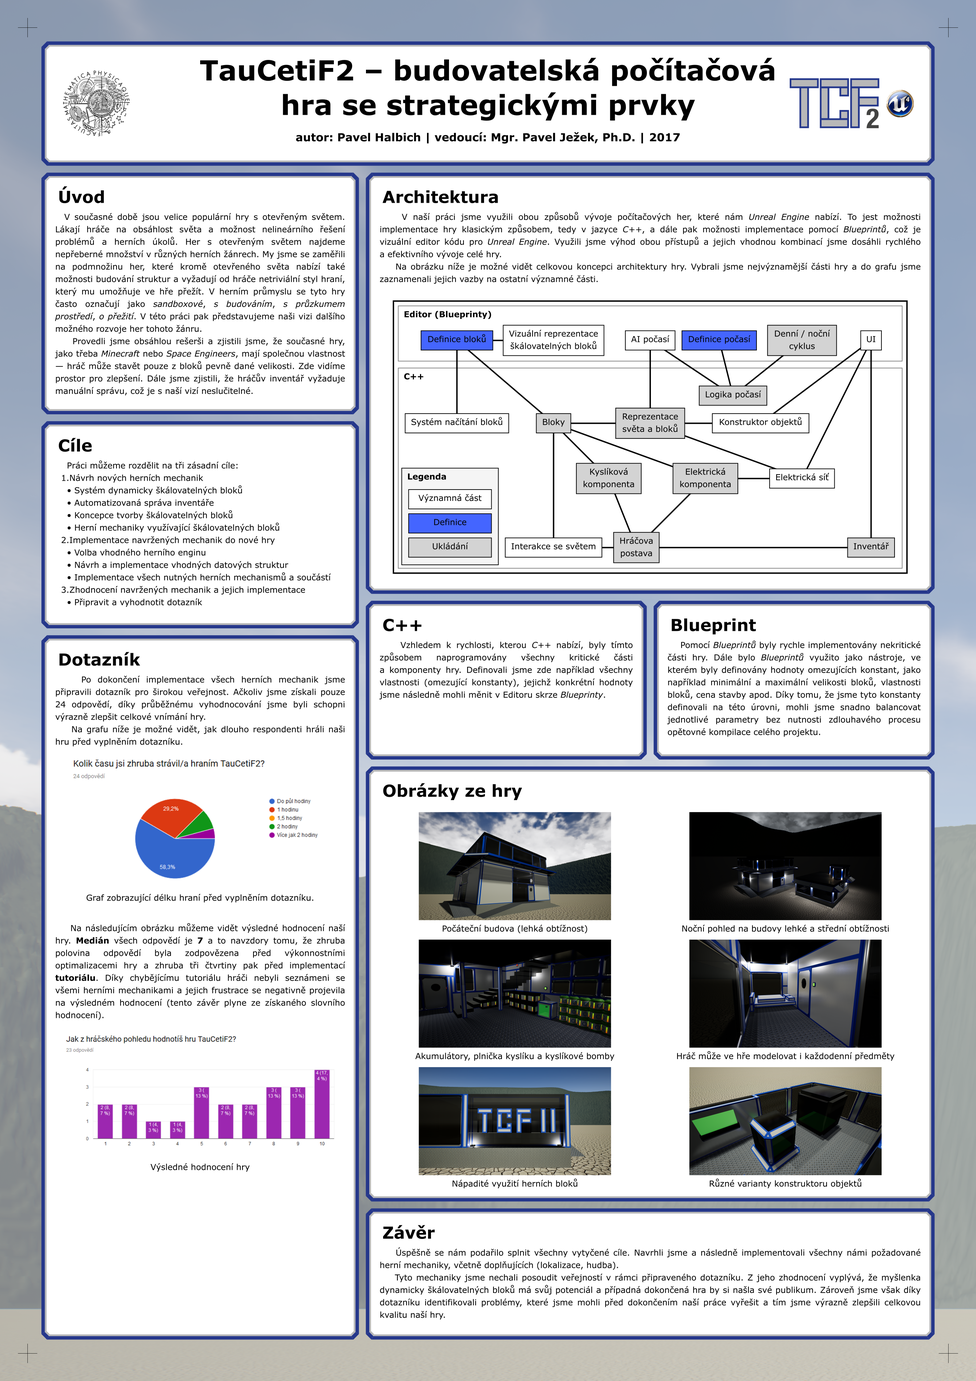
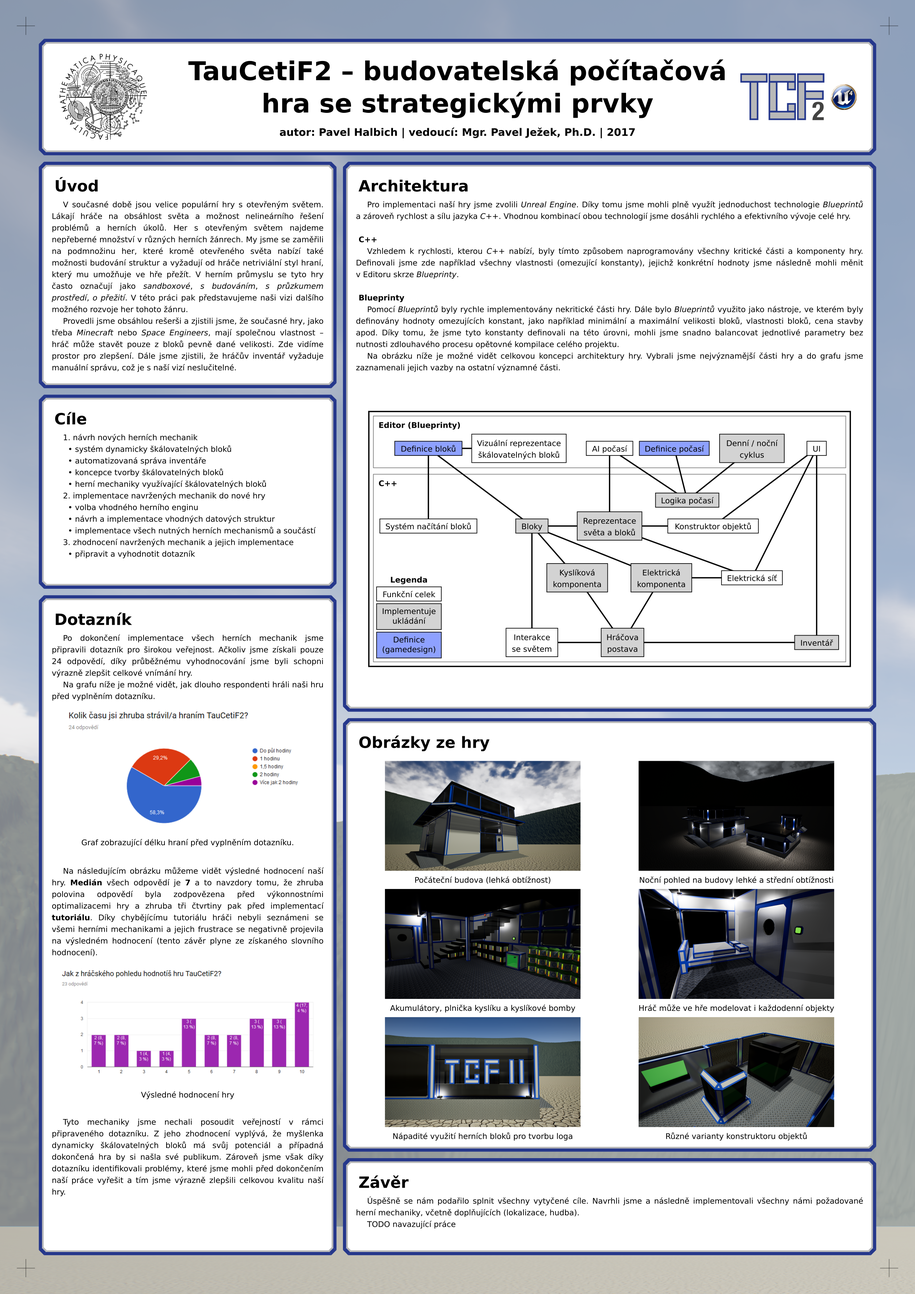
finální úpravy

diff --git a/Poster/PosterCreator/PosterCreator/PosterCreator/TextSource.cs b/Poster/PosterCreator/PosterCreator/PosterCreator/TextSource.cs
@@ -15,8 +15,6 @@ namespace PosterCreator
         Architektura,
         Obrázky,
         Závěr,
-        Kod,
-        Blueprint,
         Dotaznik
     }
 
@@ -38,11 +36,11 @@ namespace PosterCreator
                     {
                         var vsTop = new VerticalSplitter();
 
-                        var vsLogo = new VerticalSplitter().SetPadding(new Offset(10, 5));
+                        var vsLogo = new VerticalSplitter().SetPadding(new Offset(0, 5));
                         var schoolLogo = new ImageHolder("MffLogo") { IsSquare = true };
                         vsLogo.AddChild(new[] { schoolLogo }, 90);
 
-                        var centerText = new HorizontalSplitter();
+                        var centerText = new HorizontalSplitter().SetMargin(new Offset(2,0,0,0));
 
                         var c = centerText.AddChild(new[] { new Text(), new Text() }, 55, 15);
 
@@ -66,33 +64,25 @@ namespace PosterCreator
                     {
                         var ut = new Text();
                         ut.AppendText(
-                            @"  V současné době jsou velice populární hry s otevřeným světem. Lákají
-hráče na obsáhlost světa a možnost nelineárního řešení problémů a herních
-úkolů. Her s otevřeným světem najdeme nepřeberné množství v různých herních
-žánrech. My jsme se zaměřili na podmnožinu her, které kromě otevřeného světa nabízí
-také možnosti budování struktur a vyžadují od hráče netriviální styl hraní,
-který mu umožňuje ve hře přežít. V herním průmyslu se tyto hry často označují
-jako <sandboxové>, <s budováním>, <s průzkumem prostředí>, <o přežití>. V této práci pak představujeme naši vizi dalšího možného
-rozvoje her tohoto žánru."
+                            ";@V současné době jsou velice populární hry s otevřeným světem. Lákají hráče na obsáhlost světa a možnost nelineárního řešení problémů a herních úkolů. Her s otevřeným světem najdeme nepřeberné množství v různých herních žánrech. My jsme se zaměřili na podmnožinu her, které kromě otevřeného světa nabízí také možnosti budování struktur a vyžadují od hráče netriviální styl hraní, který mu umožňuje ve hře přežít. V herním průmyslu se tyto hry často označují jako <sandboxové>, <s budováním>, <s průzkumem prostředí>, <o přežití>. V této práci pak představujeme naši vizi dalšího možného rozvoje her tohoto žánru."
                         );
-                        ut.AppendText("    Provedli jsme obsáhlou rešerši a zjistili jsme, že současné hry, jako třeba <Minecraft> nebo <Space Engineers>, mají společnou vlastnost — hráč může stavět pouze z bloků pevně dané velikosti. Zde vidíme prostor pro zlepšení. Dále jsme zjistili, že hráčův inventář vyžaduje manuální správu, což je s naší vizí neslučitelné.");
+                        ut.AppendText(";@Provedli jsme obsáhlou rešerši a zjistili jsme, že současné hry, jako třeba <Minecraft> nebo <Space Engineers>, mají společnou vlastnost – hráč může stavět pouze z bloků pevně dané velikosti. Zde vidíme prostor pro zlepšení. Dále jsme zjistili, že hráčův inventář vyžaduje manuální správu, což je s naší vizí neslučitelné.");
                         return ut;
                     }
                 case SourceType.Cíle:
                     {
                         var ut = new Text();
-                        ut.AppendText("    Práci můžeme rozdělit na tři zásadní cíle:");
-                        ut.AppendText("  1.Návrh nových herních mechanik");
-                        ut.AppendText("    • Systém dynamicky škálovatelných bloků");
-                        ut.AppendText("    • Automatizovaná správa inventáře");
-                        ut.AppendText("    • Koncepce tvorby škálovatelných bloků");
-                        ut.AppendText("    • Herní mechaniky využívající škálovatelných bloků");
-                        ut.AppendText("  2.Implementace navržených mechanik do nové hry");
-                        ut.AppendText("    • Volba vhodného herního enginu");
-                        ut.AppendText("    • Návrh a implementace vhodných datových struktur");
-                        ut.AppendText("    • Implementace všech nutných herních mechanismů a součástí");
-                        ut.AppendText("  3.Zhodnocení navržených mechanik a jejich implementace");
-                        ut.AppendText("    • Připravit a vyhodnotit dotazník");
+                        ut.AppendText(";@1. návrh nových herních mechanik");
+                        ut.AppendText(";@~~• systém dynamicky škálovatelných bloků");
+                        ut.AppendText(";@~~• automatizovaná správa inventáře");
+                        ut.AppendText(";@~~• koncepce tvorby škálovatelných bloků");
+                        ut.AppendText(";@~~• herní mechaniky využívající škálovatelných bloků");
+                        ut.AppendText(";@2. implementace navržených mechanik do nové hry");
+                        ut.AppendText(";@~~• volba vhodného herního enginu");
+                        ut.AppendText(";@~~• návrh a implementace vhodných datových struktur");
+                        ut.AppendText(";@~~• implementace všech nutných herních mechanismů a součástí");
+                        ut.AppendText(";@3. zhodnocení navržených mechanik a jejich implementace");
+                        ut.AppendText(";@~~• připravit a vyhodnotit dotazník");
 
                         return ut;
                     }
@@ -100,24 +90,27 @@ rozvoje her tohoto žánru."
                     {
                         var hz = new HorizontalSplitter();
                         var ut = new Text();
+                        var canvas = new Canvas();
+                        hz.AddChild(new GraphicalElement[] { ut, canvas }, 155, 217);
+
                         ut.AppendText(new[]
                         {
-                            "    V naší práci jsme využili obou způsobů vývoje počítačových her, které nám <Unreal Engine> nabízí. To jest možnosti implementace hry klasickým způsobem, tedy v jazyce <C++>, a dále pak možnosti implementace pomocí <Blueprintů>, což je vizuální editor kódu pro <Unreal Engine>. Využili jsme výhod obou přístupů a jejich vhodnou kombinací jsme dosáhli rychlého a efektivního vývoje celé hry.",
+                            ";@Pro implementaci naší hry jsme zvolili <Unreal Engine>. Díky tomu jsme mohli plně využít jednoduchost technologie <Blueprintů> a zároveň rychlost a sílu jazyka <C++>. Vhodnou kombinací obou technologií jsme dosáhli rychlého a efektivního vývoje celé hry.",
+                            "",
+                            "[ C++]",
+                            ";@Vzhledem k rychlosti, kterou <C++> nabízí, byly tímto způsobem naprogramovány všechny kritické části a komponenty hry. Definovali jsme zde například všechny vlastnosti (omezující konstanty), jejichž konkrétní hodnoty jsme následně mohli měnit v Editoru skrze <Blueprinty>.",
+                            "",
+                            "[ Blueprinty]",
+                            ";@Pomocí <Blueprintů> byly rychle implementovány nekritické části hry. Dále bylo <Blueprintů> využito jako nástroje, ve kterém byly definovány hodnoty omezujících konstant, jako například minimální a maximální velikosti bloků, vlastnosti bloků, cena stavby apod. Díky tomu, že jsme tyto konstanty definovali na této úrovni, mohli jsme snadno balancovat jednotlivé parametry bez nutnosti zdlouhavého procesu opětovné kompilace celého projektu.",
+                            ";@Na obrázku níže je možné vidět celkovou koncepci architektury hry. Vybrali jsme nejvýznamější části hry a do grafu jsme zaznamenali jejich vazby na ostatní významné části.",
 
-                            "    Na obrázku níže je možné vidět celkovou koncepci architektury hry. Vybrali jsme nejvýznamější části hry a do grafu jsme zaznamenali jejich vazby na ostatní významné části.",
-
-                            //"    Dále jsme využili komponentový přístup. Kupříkladu implementací <kyslíkové> či <elektrické> komponenty jsme mohli tyto komponenty přiřadit jak k blokům, tak třeba k hráčově postavě. Tímto způsobem jsme se vyhnuli duplicitnímu kódu a mohli jsme s těmito mechanikami pracovat standardizovaným způsobem.",
-
-                            //"    Dále byl ve hře systém bloků implementován takovým způsobem, že je možné rozšiřovat dostupné bloky pomocí <DLC>, tedy stahovatelného obsahu. Hra tedy nabízí alespoň základní možnosti uživatelkého rozšiřování.",
-                            //"    Během práce na TCF2 jsme se maximálně snažili využít možností, které nám <Unreal Engine> nabízí. Proto jsme byli kupříkladu schopni poměrně rychle implementovat logiku, která ovládá systém počasí. Ten byl implementován pomocí rozhodovacího stromu, k čemuž jsme využili již existující nástroje, kterými <Unreal Engine> disponuje.",
                         });
 
-                        var canvas = new Canvas();
 
                         var saveColor = Color.LightGray;
-                        var defColor = Color.FromArgb(68, 101, 255);
+                        var defColor = Color.FromArgb(142, 161, 255);
 
-                        var blocks = canvas.Add("Bloky", -70, -10, 25);
+                        var blocks = canvas.Add("Bloky", -60, -10, 25);
                         blocks.SetBackground(saveColor);
 
                         var blocksDef = canvas.Add("Definice bloků", -140, -70, 52);
@@ -142,15 +135,15 @@ rozvoje her tohoto žánru."
                         var elComp = canvas.Add("Elektrická\nkomponenta", 40, 30, 47, 22);
                         elComp.SetBackground(saveColor);
                         var elNet = canvas.Add("Elektrická síť", 110, 30, 47);
-                        var o2Comp = canvas.Add("Kyslíková\nkomponenta", -30, 30, 47, 22);
+                        var o2Comp = canvas.Add("Kyslíková\nkomponenta", -25, 30, 47, 22);
                         o2Comp.SetBackground(saveColor);
 
-                        var character = canvas.Add("Hráčova\npostava", -10, 80, 33, 22);
+                        var character = canvas.Add("Hráčova\npostava", 10, 80, 33, 22);
                         character.SetBackground(saveColor);
                         var inventory = canvas.Add("Inventář", 160, 80, 34);
                         inventory.SetBackground(saveColor);
                         var blockLoadSys = canvas.Add("Systém načítání bloků", -140, -10, 75);
-                        var interWorld = canvas.Add("Interakce se světem", -70, 80, 70);
+                        var interWorld = canvas.Add("Interakce\nse světem", -60, 80, 40, 22);
 
 
                         canvas.AddR(blocks, blocksDef);
@@ -188,34 +181,20 @@ rozvoje her tohoto žánru."
 
                         canvas.AddA("C++", 0, 22.5f, 365, 145);
 
-                        var l = canvas.AddA("Legenda", -145f, 57.5f, 70, 70);
-                        l.OverrideOpacity = 1;
+                        var l = canvas.AddA("Legenda", -148.5f, 31.5f, 50); 
+                        l.OverrideOpacity = 0;
                         var c0 = 245;
-                        l.SetBackground(Color.FromArgb(c0, c0, c0));
+                        //l.SetBackground(Color.FromArgb(c0, c0, c0));
 
-                        var legendSec = canvas.Add("Významná část", -145, 45, 60);
-                        var legendDef = canvas.Add("Definice", -145, 62.5f, 60);
-                        legendDef.SetBackground(defColor);
-                        var legendSave = canvas.Add("Ukládání", -145, 80, 60);
+                        var legendSec = canvas.Add("Funkční celek", -155f, 42.5f, 50);
+                        var legendSave = canvas.Add("Implementuje ukládání", -155f, 60, 50, 20);
                         legendSave.SetBackground(saveColor);
+                        var legendDef = canvas.Add("Definice (gamedesign)", -155f, 82f, 50, 20);
+                        legendDef.SetBackground(defColor);
 
-                        hz.AddChild(new GraphicalElement[] { ut, canvas }, 55, 217);
+
 
                         return hz;
-                    }
-                case SourceType.Kod:
-                    {
-                        var ut = new Text();
-                        ut.AppendText("    Vzhledem k rychlosti, kterou <C++> nabízí, byly tímto způsobem naprogramovány všechny kritické části a komponenty hry. Definovali jsme zde například všechny vlastnosti (omezující konstanty), jejichž konkrétní hodnoty jsme následně mohli měnit v Editoru skrze <Blueprinty>.");
-
-                        return ut;
-                    }
-                case SourceType.Blueprint:
-                    {
-                        var ut = new Text();
-                        ut.AppendText("    Pomocí <Blueprintů> byly rychle implementovány nekritické části hry. Dále bylo <Blueprintů> využito jako nástroje, ve kterém byly definovány hodnoty omezujících konstant, jako například minimální a maximální velikosti bloků, vlastnosti bloků, cena stavby apod. Díky tomu, že jsme tyto konstanty definovali na této úrovni, mohli jsme snadno balancovat jednotlivé parametry bez nutnosti zdlouhavého procesu opětovné kompilace celého projektu. ");
-
-                        return ut;
                     }
                 case SourceType.Obrázky:
                     {
@@ -225,14 +204,14 @@ rozvoje her tohoto žánru."
 
                         var iml0 = new ImageWithTitle("Počáteční budova (lehká obtížnost)", "ImgL0");
                         var iml1 = new ImageWithTitle("Akumulátory, plnička kyslíku a kyslíkové bomby", "ImgL1");
-                        var iml2 = new ImageWithTitle("Nápadité využití herních bloků", "ImgL2");
+                        var iml2 = new ImageWithTitle("Nápadité využití herních bloků pro tvorbu loga", "ImgL2");
 
                         hzl.AddChild(new[] { iml0, iml1, iml2 });
 
                         var hzr = new HorizontalSplitter();
 
                         var imr0 = new ImageWithTitle("Noční pohled na budovy lehké a střední obtížnosti", "ImgR0");
-                        var imr1 = new ImageWithTitle("Hráč může ve hře modelovat i každodenní předměty", "ImgR1");
+                        var imr1 = new ImageWithTitle("Hráč může ve hře modelovat i každodenní objekty", "ImgR1");
                         var imr2 = new ImageWithTitle("Různé varianty konstruktoru objektů", "ImgR2");
 
                         hzr.AddChild(new[] { imr0, imr1, imr2 });
@@ -244,27 +223,30 @@ rozvoje her tohoto žánru."
                 case SourceType.Závěr:
                     {
                         var ut = new Text();
-                        ut.AppendText("    Úspěšně se nám podařilo splnit všechny vytyčené cíle. Navrhli jsme a následně implementovali všechny námi požadované herní mechaniky, včetně doplňujících (lokalizace, hudba).");
-                        ut.AppendText("    Tyto mechaniky jsme nechali posoudit veřejností v rámci připraveného dotazníku. Z jeho zhodnocení vyplývá, že myšlenka dynamicky škálovatelných bloků má svůj potenciál a případná dokončená hra by si našla své publikum. Zároveň jsme však díky dotazníku identifikovali problémy, které jsme mohli před dokončením naší práce vyřešit a tím jsme výrazně zlepšili celkovou kvalitu naší hry.");
+                        ut.AppendText(";@Úspěšně se nám podařilo splnit všechny vytyčené cíle. Navrhli jsme a následně implementovali všechny námi požadované herní mechaniky, včetně doplňujících (lokalizace, hudba).");
+                        ut.AppendText(";@TODO navazující práce");
                         return ut;
                     }
                 case SourceType.Dotaznik:
                     {
                         var hz = new HorizontalSplitter();
                         var ut = new Text();
-                        ut.AppendText("    Po dokončení implementace všech herních mechanik jsme připravili dotazník pro širokou veřejnost. Ačkoliv jsme získali pouze 24~odpovědí, díky průběžnému vyhodnocování jsme byli schopni výrazně zlepšit celkové vnímání hry.");
+                        ut.AppendText(";@Po dokončení implementace všech herních mechanik jsme připravili dotazník pro širokou veřejnost. Ačkoliv jsme získali pouze 24~odpovědí, díky průběžnému vyhodnocování jsme byli schopni výrazně zlepšit celkové vnímání hry.");
 
-                        ut.AppendText("    Na grafu níže je možné vidět, jak dlouho respondenti hráli naši hru před vyplněním dotazníku.");
+                        ut.AppendText(";@Na grafu níže je možné vidět, jak dlouho respondenti hráli naši hru před vyplněním dotazníku.");
 
                         var im = new ImageWithTitle("Graf zobrazující délku hraní před vyplněním dotazníku.", "SurveyPlay");
                         im.SetMargin(new Offset(0, 0, 10, 0));
 
                         var res = new Text();
-                        res.AppendText("    Na následujícím obrázku můžeme vidět výsledné hodnocení naší hry. [Medián] všech odpovědí je [7] a to navzdory tomu, že zhruba polovina odpovědí byla zodpovězena před výkonnostními optimalizacemi hry a zhruba tři čtvrtiny pak před implementací [tutoriálu]. Díky chybějícímu tutoriálu hráči nebyli seznámeni se všemi herními mechanikami a jejich frustrace se negativně projevila na výsledném hodnocení (tento závěr plyne ze získaného slovního hodnocení).");
+                        res.AppendText(";@Na následujícím obrázku můžeme vidět výsledné hodnocení naší hry. [Medián] všech odpovědí je [7] a to navzdory tomu, že zhruba polovina odpovědí byla zodpovězena před výkonnostními optimalizacemi hry a zhruba tři čtvrtiny pak před implementací [tutoriálu]. Díky chybějícímu tutoriálu hráči nebyli seznámeni se všemi herními mechanikami a jejich frustrace se negativně projevila na výsledném hodnocení (tento závěr plyne ze získaného slovního hodnocení).");
 
                         var im1 = new ImageWithTitle("Výsledné hodnocení hry", "SurveyResults");
 
-                        hz.AddChild(new GraphicalElement[] { ut, im, res, im1 }, 60, 110, 75, 110);
+                        var result = new Text();
+                        result.AppendText("");
+                        result.AppendText(";@Tyto mechaniky jsme nechali posoudit veřejností v rámci připraveného dotazníku. Z jeho zhodnocení vyplývá, že myšlenka dynamicky škálovatelných bloků má svůj potenciál a případná dokončená hra by si našla své publikum. Zároveň jsme však díky dotazníku identifikovali problémy, které jsme mohli před dokončením naší práce vyřešit a tím jsme výrazně zlepšili celkovou kvalitu naší hry.");
+                        hz.AddChild(new GraphicalElement[] { ut, im, res, im1, result }, 60, 110, 75, 110);
 
                         return hz;
                     }

diff --git a/Poster/PosterCreator/PosterCreator/PosterCreator/Elements/FlowPara.cs b/Poster/PosterCreator/PosterCreator/PosterCreator/Elements/FlowPara.cs
@@ -1,6 +1,7 @@
 using System.Diagnostics;
 using System.Text;
 using System.Xml.Linq;
+using PosterCreator.Attributes;
 using PosterCreator.Interfaces;
 
 namespace PosterCreator.Elements
@@ -54,6 +55,7 @@ namespace PosterCreator.Elements
 
             FlowSpan currentItalic = null;
             FlowSpan currentBold = null;
+            FlowSpan currentWhitespace = null;
 
             var sb = new StringBuilder();
             foreach (var item in t)
@@ -103,6 +105,29 @@ namespace PosterCreator.Elements
                             sb.Clear();
                             fp.Add(currentBold.GetNode());
                             currentBold = null;
+                            break;
+                        }
+
+                    case ';':
+                        {
+                            Debug.Assert(currentWhitespace == null);
+                            if (sb.Length > 0)
+                            {
+                                fp.Add(sb.ToString());
+                                sb.Clear();
+                            }
+
+                            currentWhitespace = new FlowSpan();
+                            currentWhitespace.Params = new WhiteSpaceParams();
+                            break;
+                        }
+                    case '@':
+                        {
+                            Debug.Assert(currentWhitespace != null);
+                            currentWhitespace.Text = "----";
+                            sb.Clear();
+                            fp.Add(currentWhitespace.GetNode());
+                            currentWhitespace = null;
                             break;
                         }
 

diff --git a/Poster/PosterCreator/PosterCreator/PosterCreator/Program.cs b/Poster/PosterCreator/PosterCreator/PosterCreator/Program.cs
@@ -42,15 +42,6 @@ namespace PosterCreator
             var arch = new BorderWithTitle("Architektura").SetMargin(new Offset(0, 0, 5, 0));
             arch.AddChild(TextSource.GetSourceFor(SourceType.Architektura));
 
-            var archc = new VerticalSplitter().SetMargin(new Offset(0, 0, 5, 0));
-
-            var code = new BorderWithTitle("C++").SetMargin(new Offset(0, 2.5f, 0, 0));
-            code.AddChild(TextSource.GetSourceFor(SourceType.Kod));
-            var bl = new BorderWithTitle("Blueprint").SetMargin(new Offset(0, 0, 0, 2.5f));
-            bl.AddChild(TextSource.GetSourceFor(SourceType.Blueprint));
-
-            archc.AddChild(new[] { code, bl }, 203.5f, 203.5f);
-
             var obraz = new BorderWithTitle("Obrázky ze hry").SetMargin(new Offset(0, 0, 5, 0));
             obraz.AddChild(TextSource.GetSourceFor(SourceType.Obrázky));
 
@@ -59,7 +50,7 @@ namespace PosterCreator
 
             zaver.SetMargin(new Offset(zaver.Margin.Top, zaver.Margin.Right, zaver.Margin.Bottom, zaver.Margin.Left));
 
-            rightContent.AddChild(new GraphicalElement[] { arch, archc, obraz, zaver }, 305, 115, 315, 95);
+            rightContent.AddChild(new GraphicalElement[] { arch, obraz, zaver }, 425, 335, 75);
             return rightContent;
         }
 

diff --git a/Poster/PosterCreator/PosterCreator/PosterCreator/PosterStructure/Canvas.cs b/Poster/PosterCreator/PosterCreator/PosterCreator/PosterStructure/Canvas.cs
@@ -43,7 +43,7 @@ namespace PosterCreator.PosterStructure
 
         #region Public Methods
 
-        public CanvasElem Add(string text, float X, float Y, float Width, float Height = 14)
+        public CanvasElem Add(string text, float X, float Y, float Width, float Height = 11)
         {
             var n = new CanvasElem(new V2D(X, Y), new V2D(Width, Height)) { Text = text };
             Elems.Add(n);
@@ -129,6 +129,10 @@ namespace PosterCreator.PosterStructure
                 };
                 text.TextParams.SetMiddle();
                 text.AppendText(item.Text.Split('\n'));
+
+                if (text.Paragraphs.Count == 1)
+                    text.TextParams.LineHeight = 125;
+
                 text.AfterInit();
                 text.OverrideLayer = LayerType.ImgText;
                 text.Render(svg);

diff --git a/Poster/PosterCreator/PosterCreator/PosterCreator/Attributes/WhiteSpaceParams.cs b/Poster/PosterCreator/PosterCreator/PosterCreator/Attributes/WhiteSpaceParams.cs
@@ -1,0 +1,16 @@
+using System;
+using System.Collections.Generic;
+using System.Linq;
+using System.Text;
+using System.Threading.Tasks;
+
+namespace PosterCreator.Attributes
+{
+    internal class WhiteSpaceParams : TextParams
+    {
+        internal override string GetStyle()
+        {
+            return "fill:#ffffff";
+        }
+    }
+}

diff --git a/Poster/PosterCreator/PosterCreator/PosterCreator/Attributes/TextParams.cs b/Poster/PosterCreator/PosterCreator/PosterCreator/Attributes/TextParams.cs
@@ -79,7 +79,7 @@
             return r;
         }
 
-        internal string GetStyle()
+        internal virtual string GetStyle()
         {
             var r = GetSpanStyle() + $"font-size:{FontSize}px;line-height:{LineHeight}%;font-family:{FontFamily};";
             if (TextAnchor != null)
